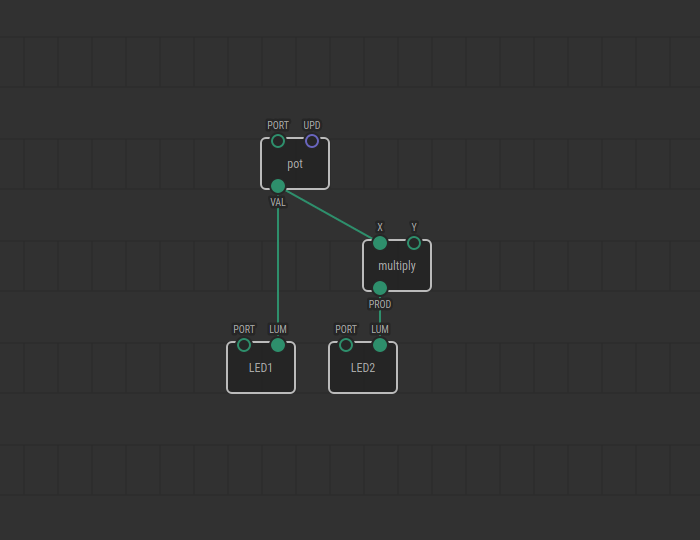
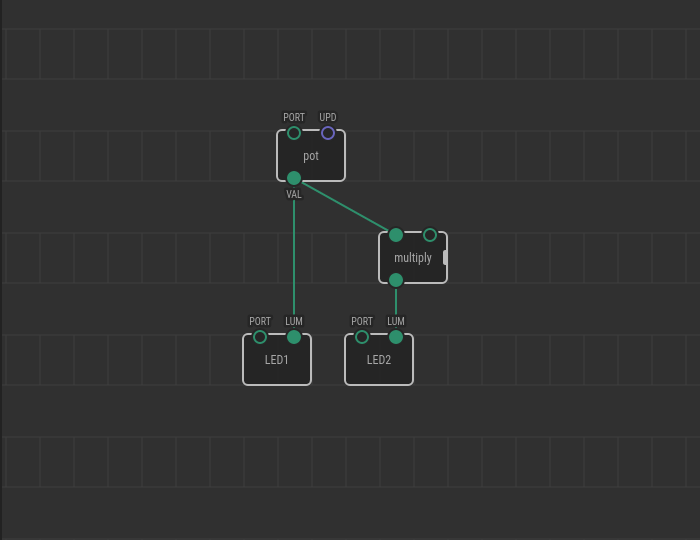
doc(tutorial): tweak texts to match new labeling scheme for variadic nodes

Changed region(s): [[0.33, 0.2074, 0.66, 0.7407], [0.57, 0.6815, 0.6, 0.7111]]

diff --git a/docs/tutorial/10-math/README.md b/docs/tutorial/10-math/README.md
@@ -23,7 +23,7 @@ Let’s try to do some math.
 ![Patch](./patch.png)
 
 As you can guess, the `multiply` node transfers the result of the multiplication
-of the numbers from the `X` and `Y` pins to the `PROD` pin.
+of the numbers from the input pins (`IN1` and `IN2`) to the output pin.
 
 In `xod/core`, you will find nodes for different mathematical and trigonometric
 calculations. Along with the `multiply` node, you will find `add`, `subtract`,
@@ -43,15 +43,15 @@ The circuit is the same as for the previous lesson.
 ## How-to
 
 1. Add a new `multiply` or another math node to the patch.
-2. Link its `X` input to the first value provider.
-3. Set the `Y` input value with the Inspector or link it to an output too.
+2. Link its left input to the first value provider.
+3. Set the right input value with the Inspector or link it to an output too.
 
 ![Screencast](./screencast.gif)
 
 Turn the potentiometer knob. If you have followed the example. The LED on port
 11 will reach the maximum brightness with a half-turn of the knob. This happens
-because the `multiply` node multiplied the values of `X` and `Y`, and
-transferred them to the `PROD` pin. As `Y` was set to 2 in the Inspector, the
-value of the `pot` node doubles before reaching the `LUM` pin of LED2.
+because the `multiply` node multiplied the input values and transferred them to
+the `OUT` pin. As `IN2` was set to 2 in the Inspector, the value of the `pot`
+node doubles before reaching the `LUM` pin of LED2.
 
 [Next lesson →](../11-servo/)

diff --git a/docs/tutorial/18-comparisons/README.md b/docs/tutorial/18-comparisons/README.md
@@ -22,8 +22,9 @@ mathematical comparisons. They are in `xod/core`.
 
 ![Patch](./patch.png)
 
-The `LHS` and `RHS` pins receive numbers to compare, and output pins return
-the comparison result expressed as a boolean value (true or false).
+The left `IN1` and right `IN2` pins receive numbers to compare, and the output
+`OUT` pin returns the comparison result expressed as a boolean value (true or
+false).
 
 ## Test circuit
 
@@ -40,15 +41,15 @@ The circuit is the same as for the previous lesson.
 
 * Place a `xod/core/less` (or `greater`) node to trigger an action when
   a measured parameter goes under (or over) a threshold value.
-* Use the `LHS` pin to link the value measured.
-* Set the threshold as the `RHS` pin value.
+* Use the left pin to link the value measured.
+* Set the threshold as the right pin value.
 * In cases where figuring out the proper threshold is tricky use a value
   from a potentiometer to adjust it dynamically.
 
 ![Screencast](./screencast.gif)
 
 In the example shown, if the `analog-input` node (our photoresistor) returns a
-value greater than the threshold, the `greater` node will set the `GT` pin to
+value greater than the threshold, the `greater` node will set the `OUT` pin to
 `true`, and the LED will turn on.
 
 [Next lesson →](../19-if-else/)

diff --git a/docs/tutorial/28-string-concat/README.md b/docs/tutorial/28-string-concat/README.md
@@ -12,7 +12,7 @@ The `concat` node will help us solve this problem.
 ![Patch](./patch.png)
 
 Concat allows you to merge two strings into one. The new string will have the
-input to the `HEAD` pin placed in the beginning and the input to the `TAIL` pin
+input to the left pin placed in the beginning and the input to the right pin
 placed at the end.
 
 ## Test circuit
@@ -29,9 +29,9 @@ placed at the end.
 2. Assign string values to each node using the Inspector. Try something like
    “Temp: ” and “Light: ” to keep things short. Put a space at the end
    so that when we combine it with another string they won't bunch up.
-3. Link the `VAL` pins of the `constant-string` nodes to the `HEAD` pins of the
-   `concat` nodes. `HEAD` is the beginning of the line, it’s the first part.
-4. Link the outputs of the thermometer and photoresistor to the `TAIL` pins on
+3. Link the `VAL` pins of the `constant-string` nodes to the left pins of the
+   `concat` nodes. The `IN1` is the beginning of the line, it’s the first part.
+4. Link the outputs of the thermometer and photoresistor to the right pins on
    the `concat` nodes. They will be the second part of the generated string.
 5. Upload the patch to the Arduino.
 

diff --git a/docs/tutorial/16-logic/README.md b/docs/tutorial/16-logic/README.md
@@ -18,9 +18,9 @@ in `xod/core`.
 
 ![Patch](./patch.png)
 
-* `and` returns `true` if both A *and* B are `true`
-* `or` returns `true` if A, B, or both are `true`
-* `xor` returns `true` if only one of A and B is `true`
+* `and` returns `true` if both inputs (`IN1` *and* `IN2`) are `true`
+* `or` returns `true` if `IN1`, `IN2`, or both are `true`
+* `xor` returns `true` if only one of `IN1` and `IN2` is `true`
 * `not` inverts the input value
 * `nand` is an inverted `and`
 * `nor` is an inverted `or`
